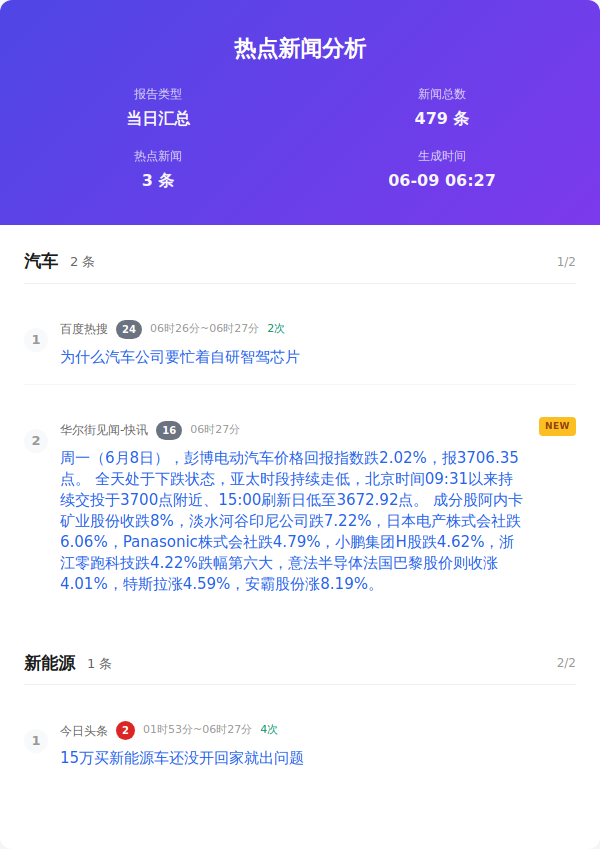
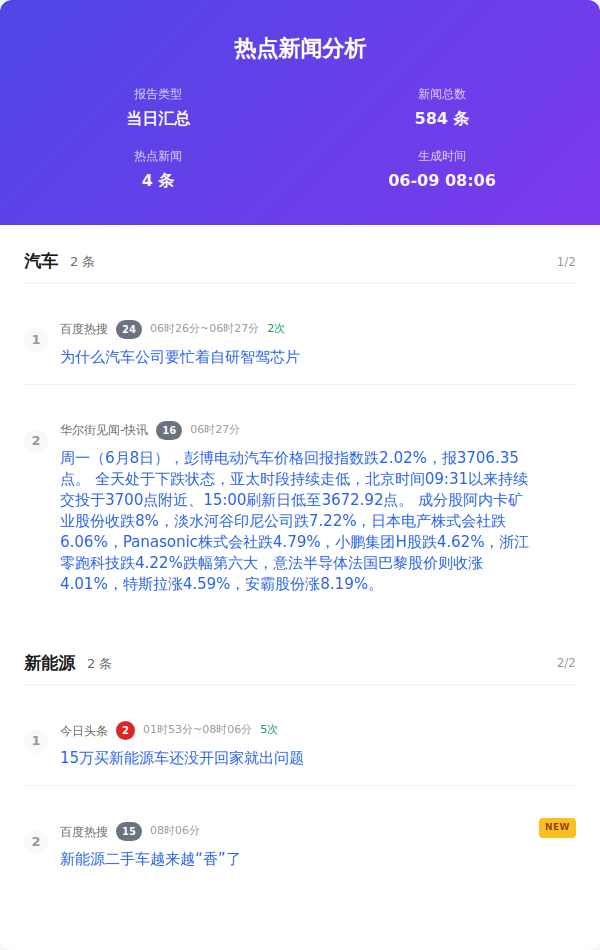
Auto update by GitHub Actions at Tue Jun  9 08:06:38 CST 2026

diff --git a/index.html b/index.html
@@ -357,15 +357,15 @@
                     </div>
                     <div class="info-item">
                         <span class="info-label">新闻总数</span>
-                        <span class="info-value">479 条</span>
+                        <span class="info-value">584 条</span>
                     </div>
                     <div class="info-item">
                         <span class="info-label">热点新闻</span>
-                        <span class="info-value">3 条</span>
+                        <span class="info-value">4 条</span>
                     </div>
                     <div class="info-item">
                         <span class="info-label">生成时间</span>
-                        <span class="info-value">06-09 06:27</span>
+                        <span class="info-value">06-09 08:06</span>
                     </div>
                 </div>
             </div>
@@ -389,7 +389,7 @@
                             </div>
                         </div>
                     </div>
-                    <div class="news-item new">
+                    <div class="news-item ">
                         <div class="news-number">2</div>
                         <div class="news-content">
                             <div class="news-header">
@@ -404,7 +404,7 @@
                     <div class="word-header">
                         <div class="word-info">
                             <div class="word-name">新能源</div>
-                            <div class="word-count ">1 条</div>
+                            <div class="word-count ">2 条</div>
                         </div>
                         <div class="word-index">2/2</div>
                     </div>
@@ -412,9 +412,19 @@
                         <div class="news-number">1</div>
                         <div class="news-content">
                             <div class="news-header">
-                                <span class="source-name">今日头条</span><span class="rank-num top">2</span><span class="time-info">01时53分~06时27分</span><span class="count-info">4次</span>
+                                <span class="source-name">今日头条</span><span class="rank-num top">2</span><span class="time-info">01时53分~08时06分</span><span class="count-info">5次</span>
                             </div>
                             <div class="news-title"><a href="https://www.toutiao.com/trending/7648583608257069099/" target="_blank" class="news-link">15万买新能源车还没开回家就出问题</a>
+                            </div>
+                        </div>
+                    </div>
+                    <div class="news-item new">
+                        <div class="news-number">2</div>
+                        <div class="news-content">
+                            <div class="news-header">
+                                <span class="source-name">百度热搜</span><span class="rank-num ">15</span><span class="time-info">08时06分</span>
+                            </div>
+                            <div class="news-title"><a href="https://www.baidu.com/s?wd=%E6%96%B0%E8%83%BD%E6%BA%90%E4%BA%8C%E6%89%8B%E8%BD%A6%E8%B6%8A%E6%9D%A5%E8%B6%8A%E2%80%9C%E9%A6%99%E2%80%9D%E4%BA%86" target="_blank" class="news-link">新能源二手车越来越“香”了</a>
                             </div>
                         </div>
                     </div>

diff --git a/output/2026年06月09日/html/当日汇总.html b/output/2026年06月09日/html/当日汇总.html
@@ -357,15 +357,15 @@
                     </div>
                     <div class="info-item">
                         <span class="info-label">新闻总数</span>
-                        <span class="info-value">479 条</span>
+                        <span class="info-value">584 条</span>
                     </div>
                     <div class="info-item">
                         <span class="info-label">热点新闻</span>
-                        <span class="info-value">3 条</span>
+                        <span class="info-value">4 条</span>
                     </div>
                     <div class="info-item">
                         <span class="info-label">生成时间</span>
-                        <span class="info-value">06-09 06:27</span>
+                        <span class="info-value">06-09 08:06</span>
                     </div>
                 </div>
             </div>
@@ -389,7 +389,7 @@
                             </div>
                         </div>
                     </div>
-                    <div class="news-item new">
+                    <div class="news-item ">
                         <div class="news-number">2</div>
                         <div class="news-content">
                             <div class="news-header">
@@ -404,7 +404,7 @@
                     <div class="word-header">
                         <div class="word-info">
                             <div class="word-name">新能源</div>
-                            <div class="word-count ">1 条</div>
+                            <div class="word-count ">2 条</div>
                         </div>
                         <div class="word-index">2/2</div>
                     </div>
@@ -412,9 +412,19 @@
                         <div class="news-number">1</div>
                         <div class="news-content">
                             <div class="news-header">
-                                <span class="source-name">今日头条</span><span class="rank-num top">2</span><span class="time-info">01时53分~06时27分</span><span class="count-info">4次</span>
+                                <span class="source-name">今日头条</span><span class="rank-num top">2</span><span class="time-info">01时53分~08时06分</span><span class="count-info">5次</span>
                             </div>
                             <div class="news-title"><a href="https://www.toutiao.com/trending/7648583608257069099/" target="_blank" class="news-link">15万买新能源车还没开回家就出问题</a>
+                            </div>
+                        </div>
+                    </div>
+                    <div class="news-item new">
+                        <div class="news-number">2</div>
+                        <div class="news-content">
+                            <div class="news-header">
+                                <span class="source-name">百度热搜</span><span class="rank-num ">15</span><span class="time-info">08时06分</span>
+                            </div>
+                            <div class="news-title"><a href="https://www.baidu.com/s?wd=%E6%96%B0%E8%83%BD%E6%BA%90%E4%BA%8C%E6%89%8B%E8%BD%A6%E8%B6%8A%E6%9D%A5%E8%B6%8A%E2%80%9C%E9%A6%99%E2%80%9D%E4%BA%86" target="_blank" class="news-link">新能源二手车越来越“香”了</a>
                             </div>
                         </div>
                     </div>